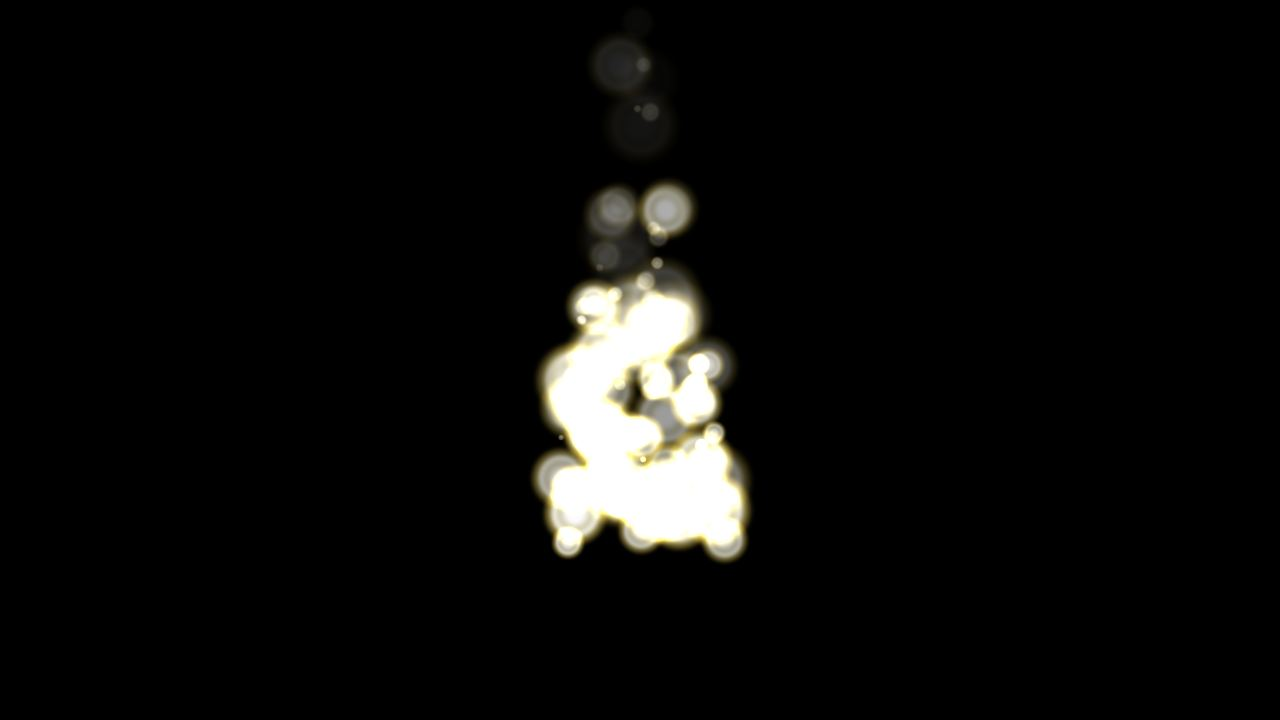
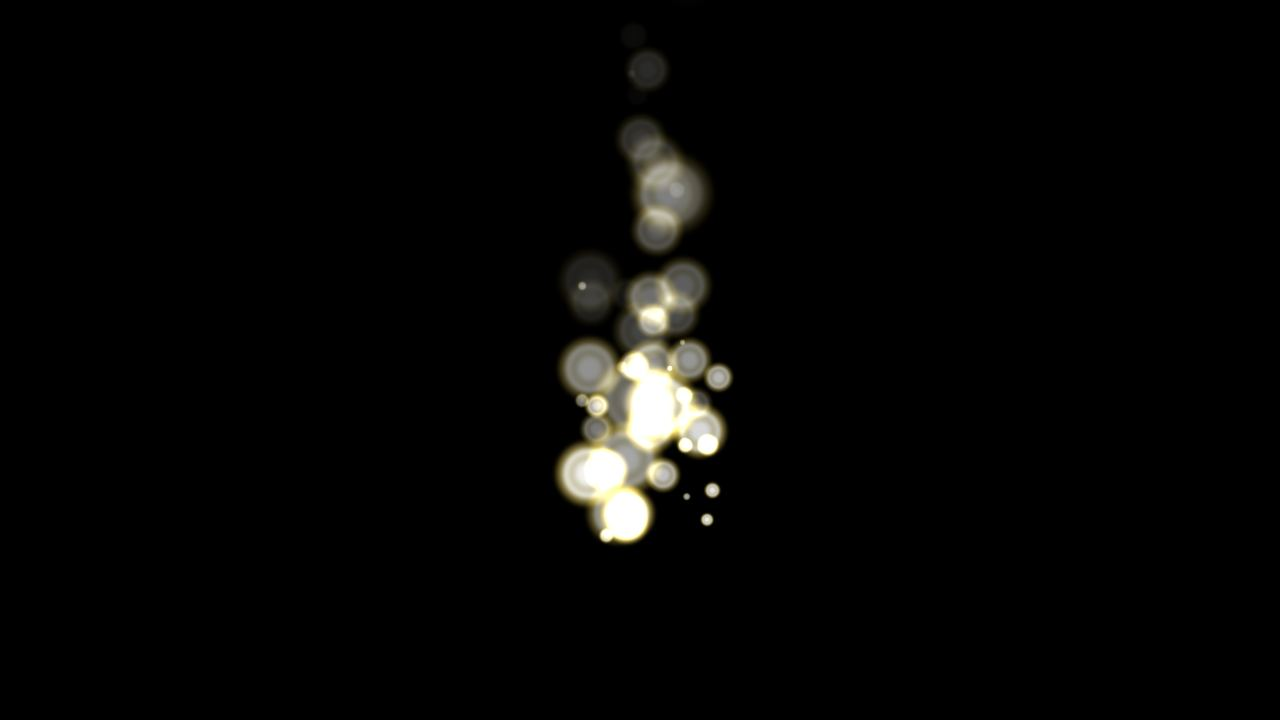
fix(particle): reduce attractor scene overdraw

Changed region(s): [[0.4062, 0.0611, 0.5938, 0.7944]]

diff --git a/lab/lite/src/shared/scene277-npe.ts b/lab/lite/src/shared/scene277-npe.ts
@@ -55,6 +55,6 @@ export function createScene277NpeJson(): unknown {
     });
     particle.targetBlockId = attractorId;
     particle.targetConnectionName = "output";
-    emitRate.value = 100;
+    emitRate.value = 50;
     return graph;
 }
